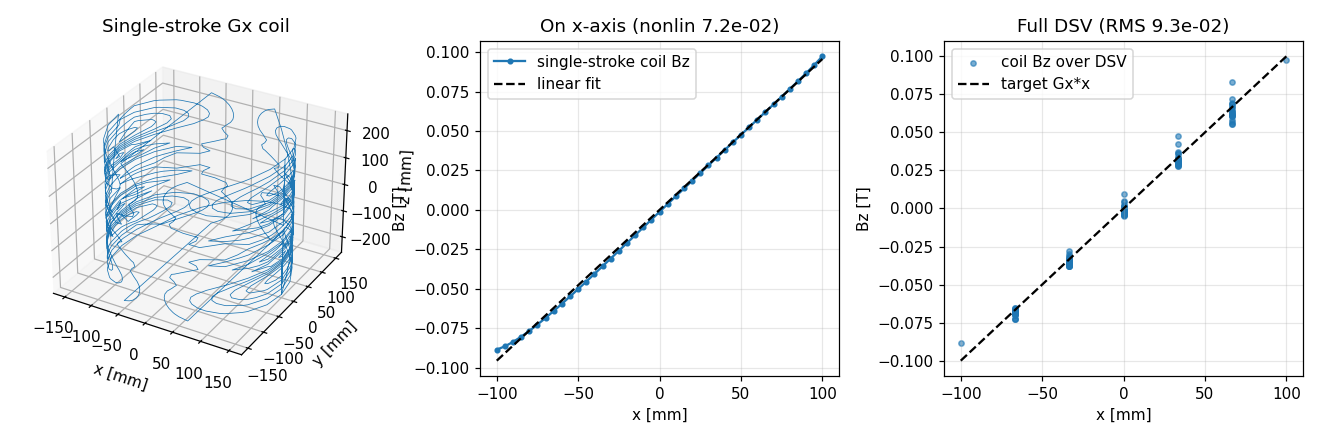
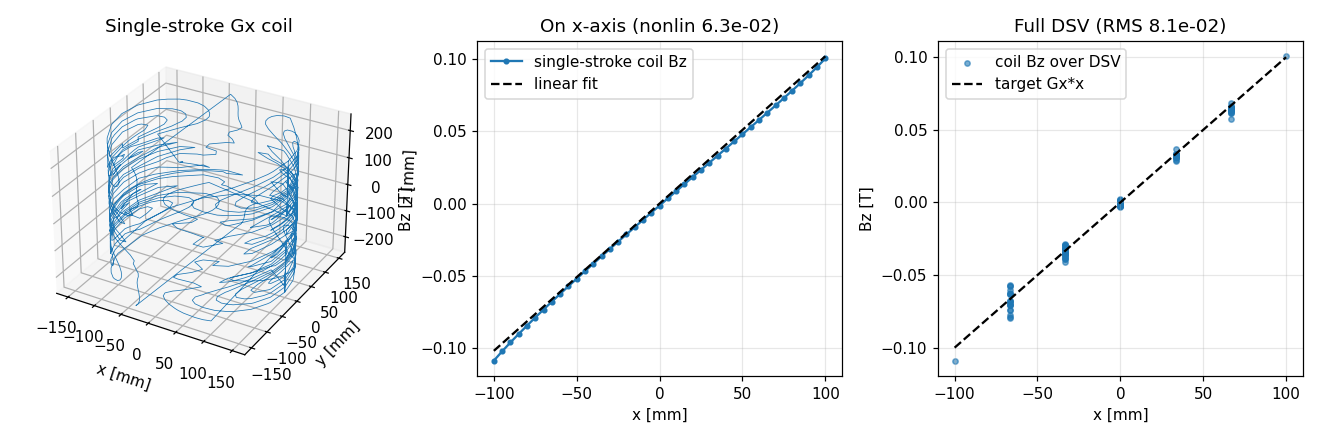
stream-function Gx: field_aware + Path-A composes to 8.1% RMS; fix stale prints
The connection method (field_aware) and the SF-design absorption (Path-A
compensated iteration) are SEPARATE levers that compose: stacking Path-A
(--compensated-iter 40 --compensated-step 0.3) on the field_aware chain
reaches 8.11% DSV RMS (-13% on top of field_aware's 9.29%), x-nonlin 7.20%
-> 6.27% -- roughly half the old kuijpers baseline (16.24%). Path-A is
step-sensitive (0.3 gained, 0.5/0.8 found nothing).

Fixes:
- the compensated-loop "final" print hardcoded "baseline was 1.624e-01"
  (the old kuijpers value); now reports the actual iter-1 residual + the
  active chain method.
- connector_lengths_phi_z docstring claimed "DSV RMS tracks the azimuthal
  total" -- disproven by field_aware (more azimuthal arc, lower RMS); now
  states it is a diagnostic, not a predictor, and to optimise the field.

docs/stream_function/single_stroke.md tier table + examples README updated
with the composed 8.1% result.

diff --git a/examples/stream_function/demo_sf_to_peec_gx.py b/examples/stream_function/demo_sf_to_peec_gx.py
@@ -736,9 +736,13 @@ def connector_lengths_phi_z(polylines, chain_phi_z, a):
     than tracing an iso-contour.  We flag segments longer than 2x the median
     edge length -- a robust proxy that does not need per-vertex contour
     membership.  Returns ``(max_rung, total_rung, n_rung, azimuthal_total)``
-    in metres.  ``azimuthal_total`` = sum over rungs of ``a*|dphi|``, the
-    field-impact correlator established by the nn_blend negative result
-    (2026-05-31): DSV RMS tracks the azimuthal total, NOT the 3D length.
+    in metres.  ``azimuthal_total`` = sum over rungs of ``a*|dphi|``.  It is
+    a useful DIAGNOSTIC (azimuthal rung content is more harmful than axial),
+    but it is NOT a clean predictor of DSV RMS: field_aware has a LARGER
+    azimuthal total than kuijpers yet a LOWER RMS, because the field impact
+    is the symmetric CANCELLATION of the rung stray fields (current-sign
+    order + placement), not their summed length.  Do not optimise this value
+    directly -- optimise the field (DSV RMS) and use the skill's verify loop.
     """
     path = np.column_stack([
         a * np.cos(chain_phi_z[:, 0]),
@@ -910,6 +914,7 @@ def main():
         best_psi = psi.copy()
         best_polylines = polylines
         best_res_norm = float("inf")
+        first_res_norm = None
         for it in range(args.compensated_iter):
             chain_it = build_chain_from_polylines(polylines)
             path_it = chain_phi_z_to_3d(chain_it, a)
@@ -921,6 +926,8 @@ def main():
             residual = B_target - chain_field_it
             res_norm = float(np.linalg.norm(residual)
                              / (np.linalg.norm(B_target) + 1e-30))
+            if first_res_norm is None:
+                first_res_norm = res_norm
             tag = ""
             if res_norm < best_res_norm:
                 best_res_norm = res_norm
@@ -942,7 +949,8 @@ def main():
         polylines = best_polylines
         psi_zphi = psi.reshape(args.nz, args.nphi)
         print(f"     final: best residual = {best_res_norm:.3e}"
-              f" (baseline was 1.624e-01 at iter 1)")
+              f" (iter-1 baseline was {first_res_norm:.3e},"
+              f" method={args.chain_method})")
 
     chain_phi_z = build_chain_from_polylines(polylines)
     path = chain_phi_z_to_3d(chain_phi_z, a)

diff --git a/examples/stream_function/README.md b/examples/stream_function/README.md
@@ -169,16 +169,24 @@ ASCII summary only.  `demo_cmaes_magnet_design.py` additionally needs `optuna`
   back-substitution + one chain rebuild per iter.
 
   Status: the naive Picard form does NOT converge (chain construction
-  is too nonlinear in phi -- level-set topology jumps each iter).  With
-  ``alpha=0.05`` and ~30 iterations the iteration OSCILLATES around the
-  baseline but occasionally finds slightly better neighbourhoods; the
-  demo tracks the best psi seen and uses it for downstream evaluation.
-  Best observed gain on the Gx baseline: DSV RMS 16.24 % -> 15.28 %
-  (-6 %), x-axis nonlinearity 9.73 % -> 5.99 % (-38 %).  Modest but
-  reproducible.  See ``radia-mcp aca_tsvd(single_stroke)`` topic for
-  the open extensions (Anderson acceleration, frozen-topology, B-spline
-  continuous SFD, multivalued-potential formulation) that may give true
-  convergence.
+  is too nonlinear in phi -- level-set topology jumps each iter).  The
+  iteration OSCILLATES around the baseline but occasionally finds slightly
+  better neighbourhoods; the demo tracks the best psi seen and uses it for
+  downstream evaluation.  It is step-sensitive (a good ``--compensated-step``
+  helps; a bad one finds no gain).  Best observed, stacked on the
+  ``field_aware`` chain:
+
+  | chain         | + Path-A (step 0.3, 40 iter) | x-nonlin       |
+  |---------------|------------------------------|----------------|
+  | field_aware 9.29 % | **8.11 %** (-13 %)      | 7.20 % -> 6.27 % |
+  | kuijpers 16.24 %   | 15.28 % (-6 %)          | 9.73 % -> 5.99 % |
+
+  So the two best ideas COMPOSE: ``field_aware`` (better connection) plus
+  Path-A (SF design absorbs the residual rung field) reaches 8.11 % DSV RMS,
+  roughly half the old ``kuijpers`` baseline.  See
+  ``radia-mcp aca_tsvd(single_stroke)`` for the open extensions (Anderson
+  acceleration, frozen-topology, B-spline continuous SFD, multivalued-
+  potential formulation) that may give true convergence.
   The chain is one physical wire (~22 m); PEEC returns `L ~ 17 uH`,
   `R ~ 80 mOhm` at 1 kHz (port = chain start to chain end, auto-sized round
   filament cross-section so adjacent contour wires don't overlap).  The

diff --git a/docs/stream_function/single_stroke.md b/docs/stream_function/single_stroke.md
@@ -108,17 +108,18 @@ A coil's REACHABLE design quality is bounded by its TOPOLOGY:
 | EASY   | axisym. / planar uniform  | RMS 2–3 %   | < 1 %        | useful (basis-loop)          |
 |        |   + FE-direct H¹ ψ        | 2 %         | **0.47 %**   | **MONOTONE convergence**     |
 | MEDIUM | cylindrical Gz            | already OK  | redundant    | smooth helix natural         |
-| HARD   | cylindrical Gx fingerprint| 16 % (kuijpers) → **9.3 % (field_aware)** | tier softened | chain method matters         |
+| HARD   | cylindrical Gx fingerprint| 16 % (kuijpers) → **9.3 % (field_aware)** | **8.1 % (field_aware + Path-A)** | chain method matters; Path-A composes |
 | HARDER | shielded / biplanar / 3D  | —           | —            | needs FE-direct or D-path    |
 
 Past EASY needs FE-direct continuous ψ.  **The HARD tier "16 % ceiling"
 was a `kuijpers`-method artifact, not a fundamental bound**: the
 `field_aware` chain (sign-order + azimuthal-min cuts, 2026-05-31) reaches
 9.3 % on the same SF design with no Path-A — so the connection METHOD, not
-just the SF design, gates HARD-tier quality.  Going lower still likely
-needs B-spline SFD (Kuijpers Methods 2/3) or multivalued-potential
-reformulation (Path D in `aca_tsvd(topic=single_stroke)`), or Path-A on
-top of `field_aware`.
+just the SF design, gates HARD-tier quality.  The two best ideas COMPOSE:
+`field_aware` + Path-A (`--compensated-iter 40 --compensated-step 0.3`)
+reaches **8.1 %**, roughly half the old `kuijpers` baseline.  Going lower
+still likely needs B-spline SFD (Kuijpers Methods 2/3) or multivalued-
+potential reformulation (Path D in `aca_tsvd(topic=single_stroke)`).
 
 ## Dead-end variants (do NOT re-try)
 
